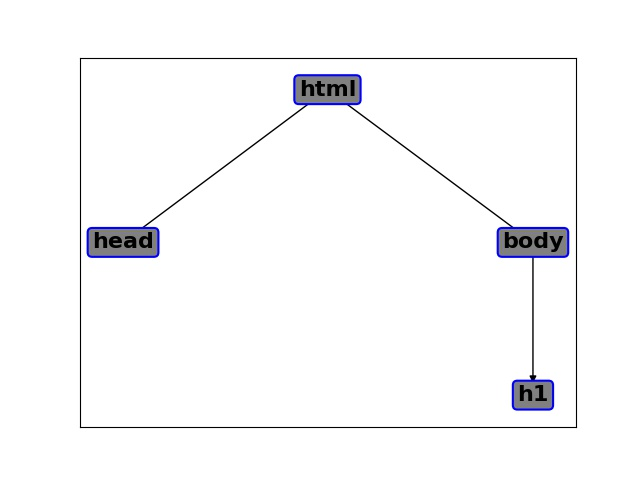
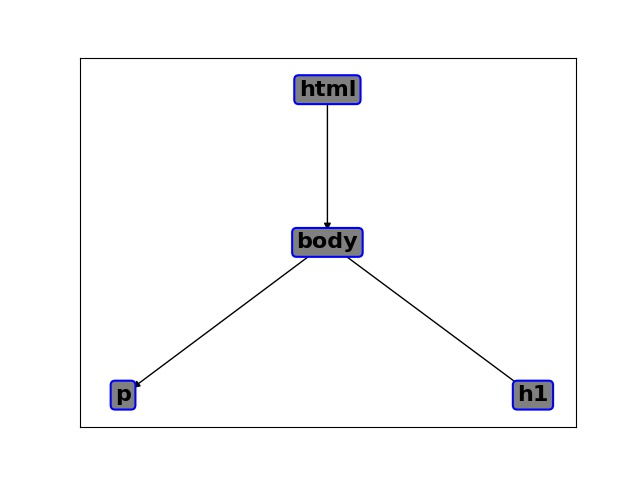
image displays

diff --git a/app.js b/app.js
@@ -10,19 +10,24 @@ app.use(bodyParser.urlencoded({extended: true}));
 app.use(express.static("public"));
 
 let htmlContent = "";
+let flag = 0;
+let convertFlag = 0;
+let clearFlag = 0;
 
 
 app.get('/' , function(req , res)
 {
-  res.render('index' , {htmlContent : htmlContent});
+  res.render('index' , {htmlContent : htmlContent , flag : flag , convertFlag : convertFlag , clearFlag : clearFlag});
 });
 
 
 
 app.post('/' , function(req , res)
 {
-  let htmlContent = req.body.htmlInput;
-//  console.log(htmlContent);
+
+  htmlContent = req.body.htmlInput;
+  flag = 1;
+  console.log(convertFlag);
 
   var spawn = require("child_process").spawn;
   var process = spawn('python',["./convert.py" , htmlContent] );
@@ -34,7 +39,7 @@ app.post('/' , function(req , res)
      console.log(data.toString());
 
    });
-    res.render('index'  , {htmlContent : htmlContent});
+   res.render('index' , {htmlContent : htmlContent , flag : flag , convertFlag : convertFlag , clearFlag : clearFlag});
 
 });
 

diff --git a/convert.py b/convert.py
@@ -5,15 +5,15 @@ import matplotlib.pyplot as plt
 from networkx.drawing.nx_agraph import graphviz_layout
 
 
-# htmlContent = sys.argv[1]
-# # print(htmlContent)
-# raw = htmlContent
+htmlContent = sys.argv[1]
+#print(htmlContent)
+raw = htmlContent
 
-raw = '''
-<html>
-<h1> hi </h1>
-</html>
-'''
+# raw = '''
+# <html>
+# <h1> hi </h1>
+# </html>
+# '''
 
 
 
@@ -58,7 +58,7 @@ for node, label in labels.items():
 ax.xaxis.set_visible(False)
 ax.yaxis.set_visible(False)
 plt.savefig("./public/images/output.jpg")
-plt.show()
+#plt.show()
 
 # print(G_edges)
 # print(G_nodes)
